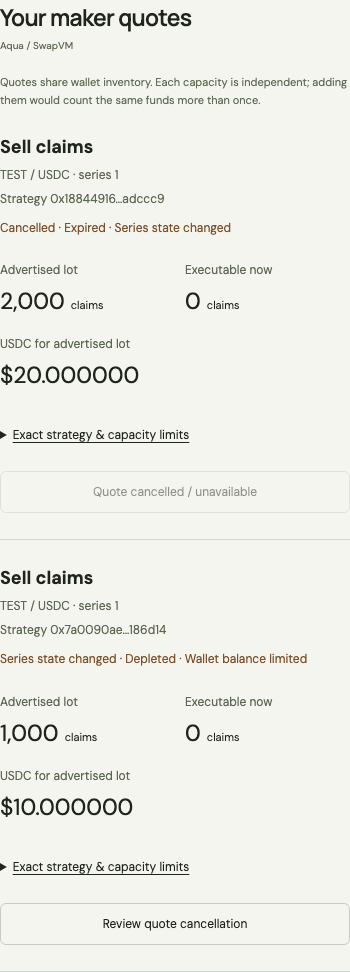
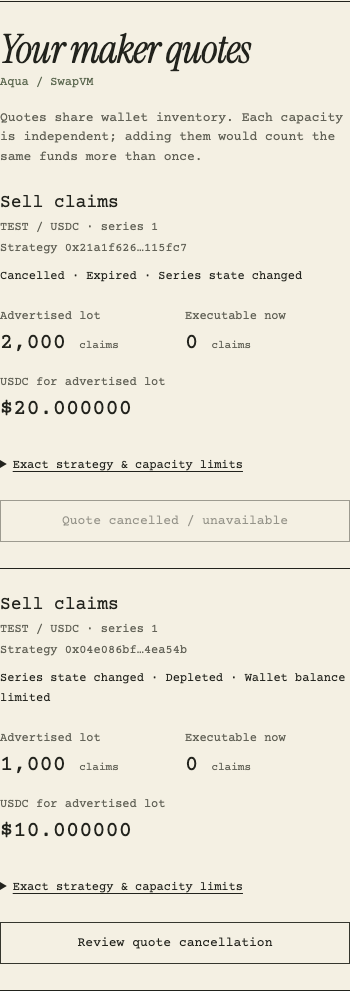
test(web): route maker rehearsal through the usufruct seller flow
Verify actual bids, fills and maker cancellation with the new Pin a tree entry and an isolated local port.

diff --git a/docs/design/usufruct-implementation.md b/docs/design/usufruct-implementation.md
@@ -38,3 +38,5 @@ The lead inspected the combined application, with actual self-hosted fonts and p
 
 
 Both retained-witness and verified-cache-only browser lifecycle variants pass after integration. The testnet production build also passes. The existing public-data preview was rebuilt with the Sepolia manifest; its disconnected desktop/mobile check preserves the truthful empty orchard and contains no fixture data. [Public preview evidence](evidence/usufruct/public-review.json). No wallet was connected or public transaction sent for this design check.
+
+The separate actual-chain maker regression also passes against the integrated interface: ask fill, exact bid proceeds, revoked/expired/depleted/stale strategies, quote cancellation and unchanged captured reserves. Its seller entry now uses Pin a tree, while maker management remains in My cabinet. `QUOTE_RPC_PORT` and `QUOTE_APP_URL` permit isolated local verification without resetting another preview. [Maker evidence](quotes-chain-evidence.json).
